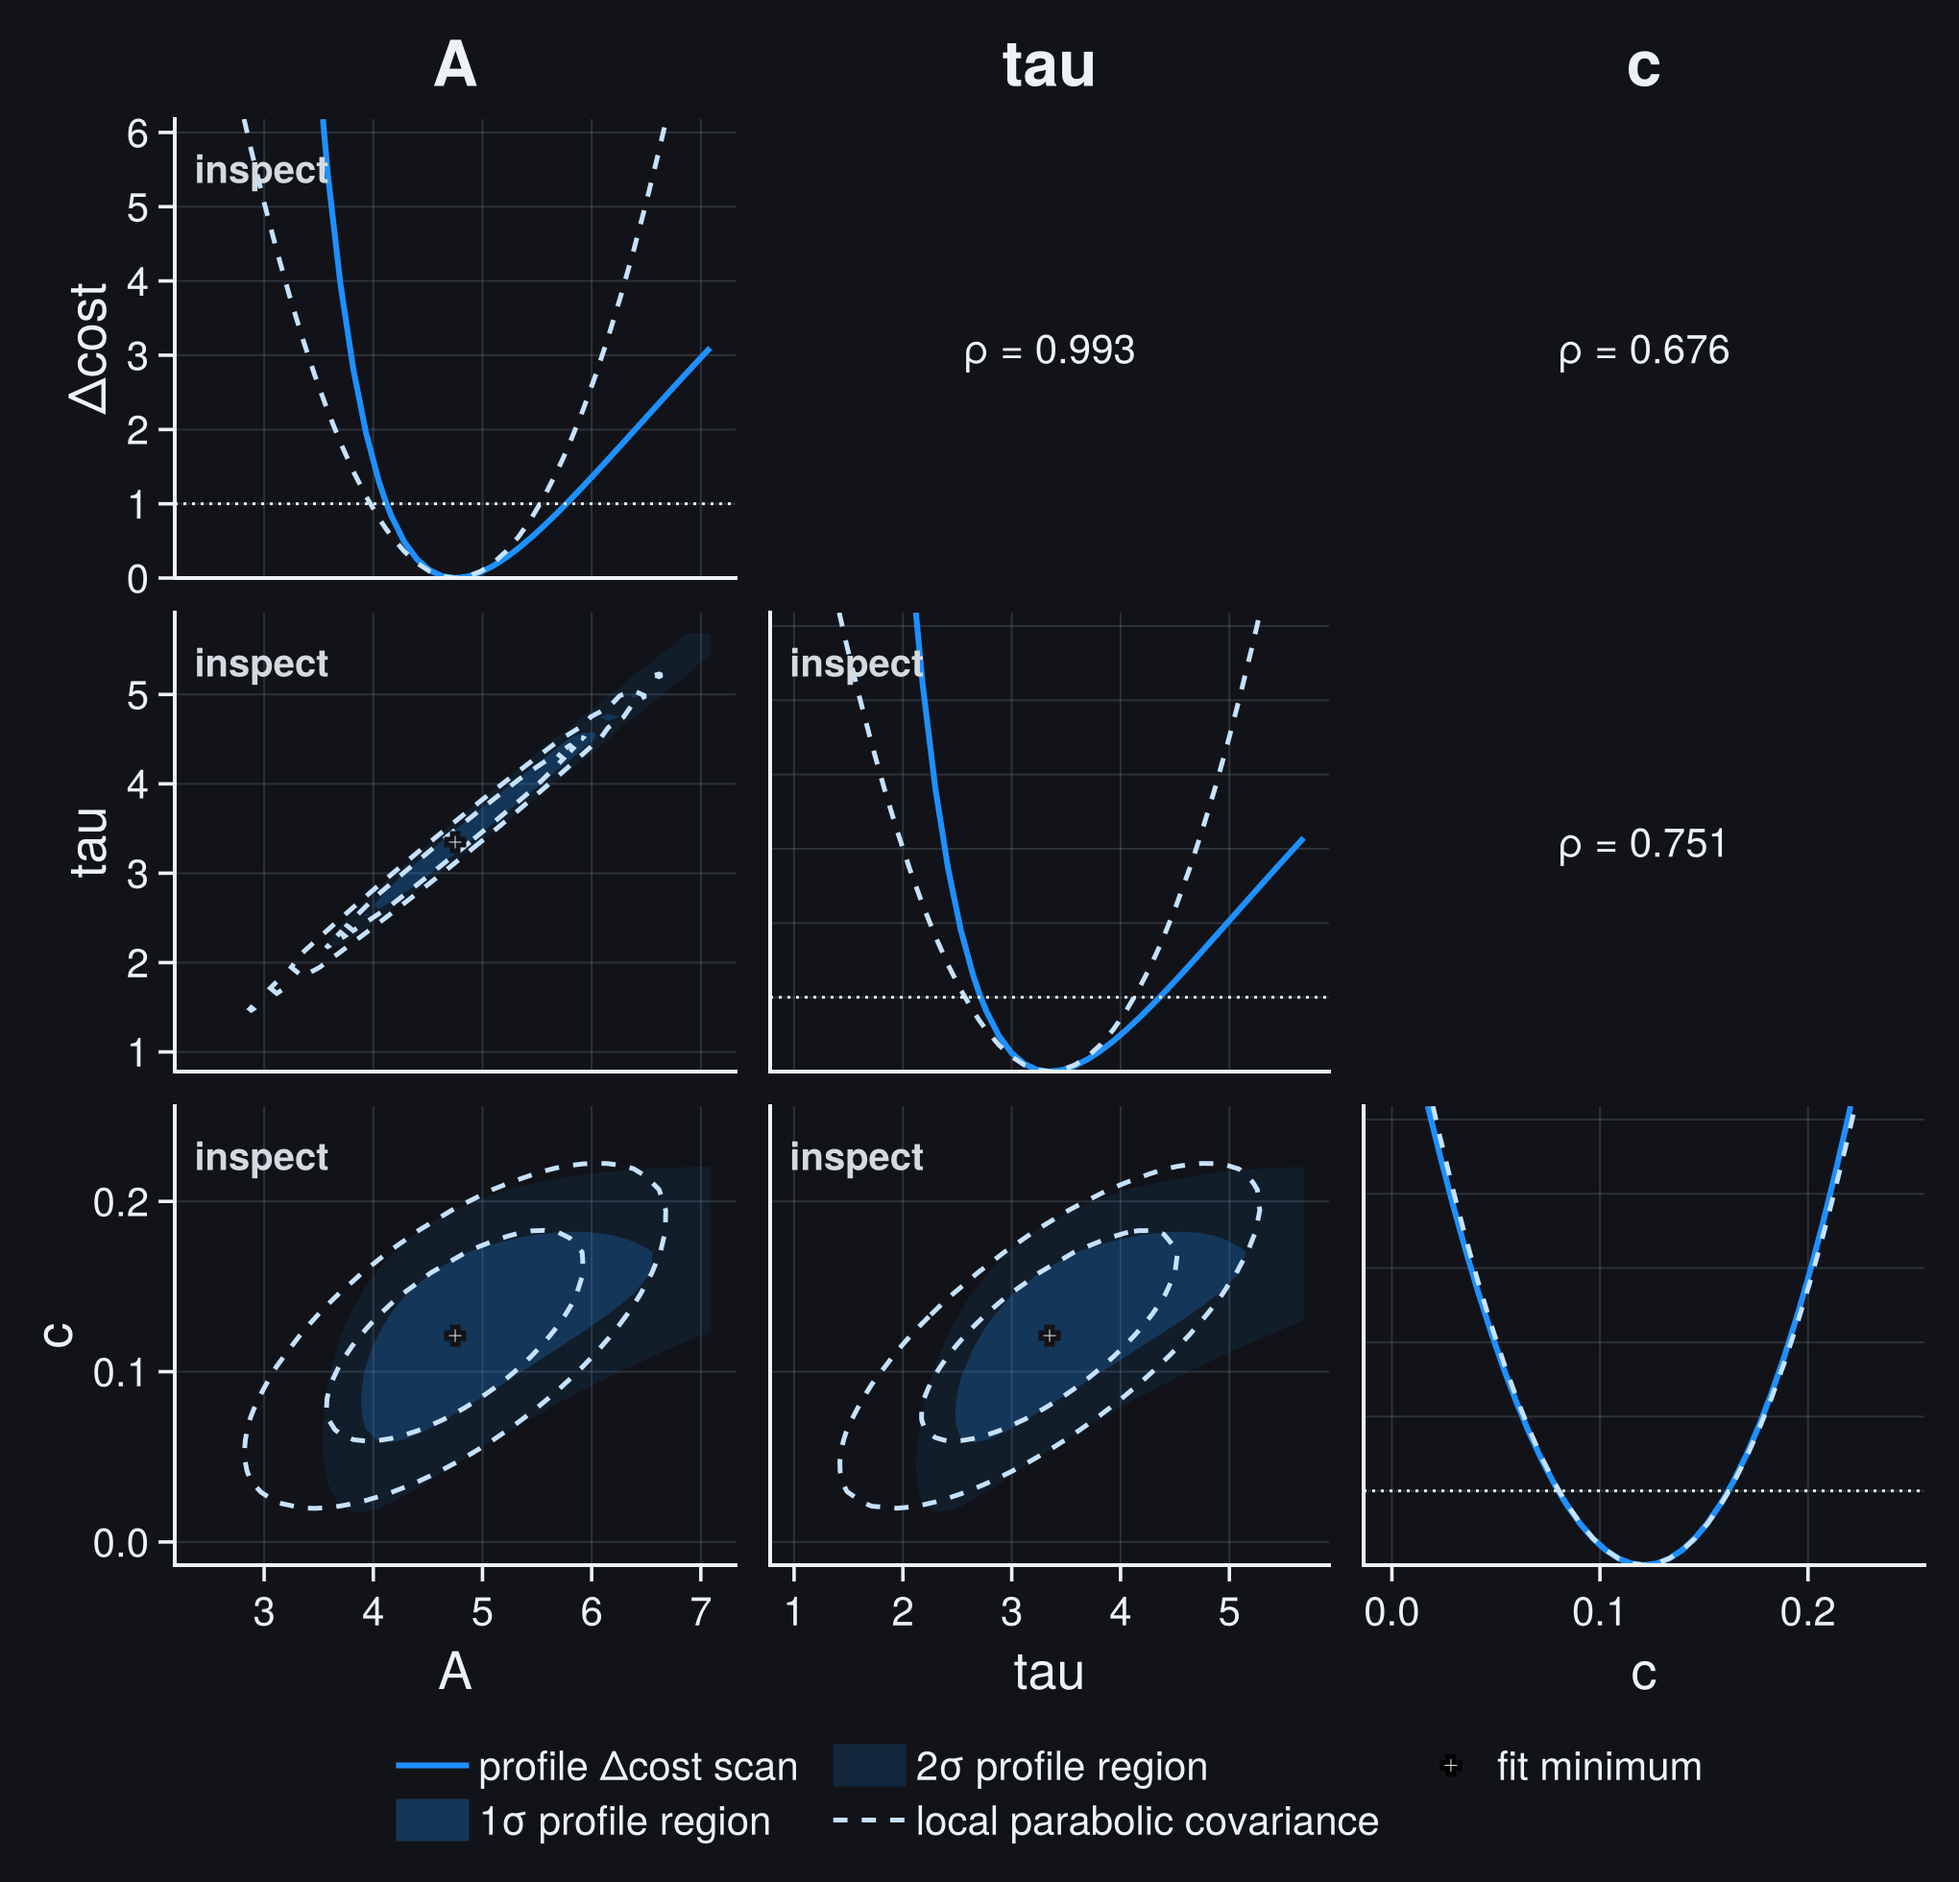
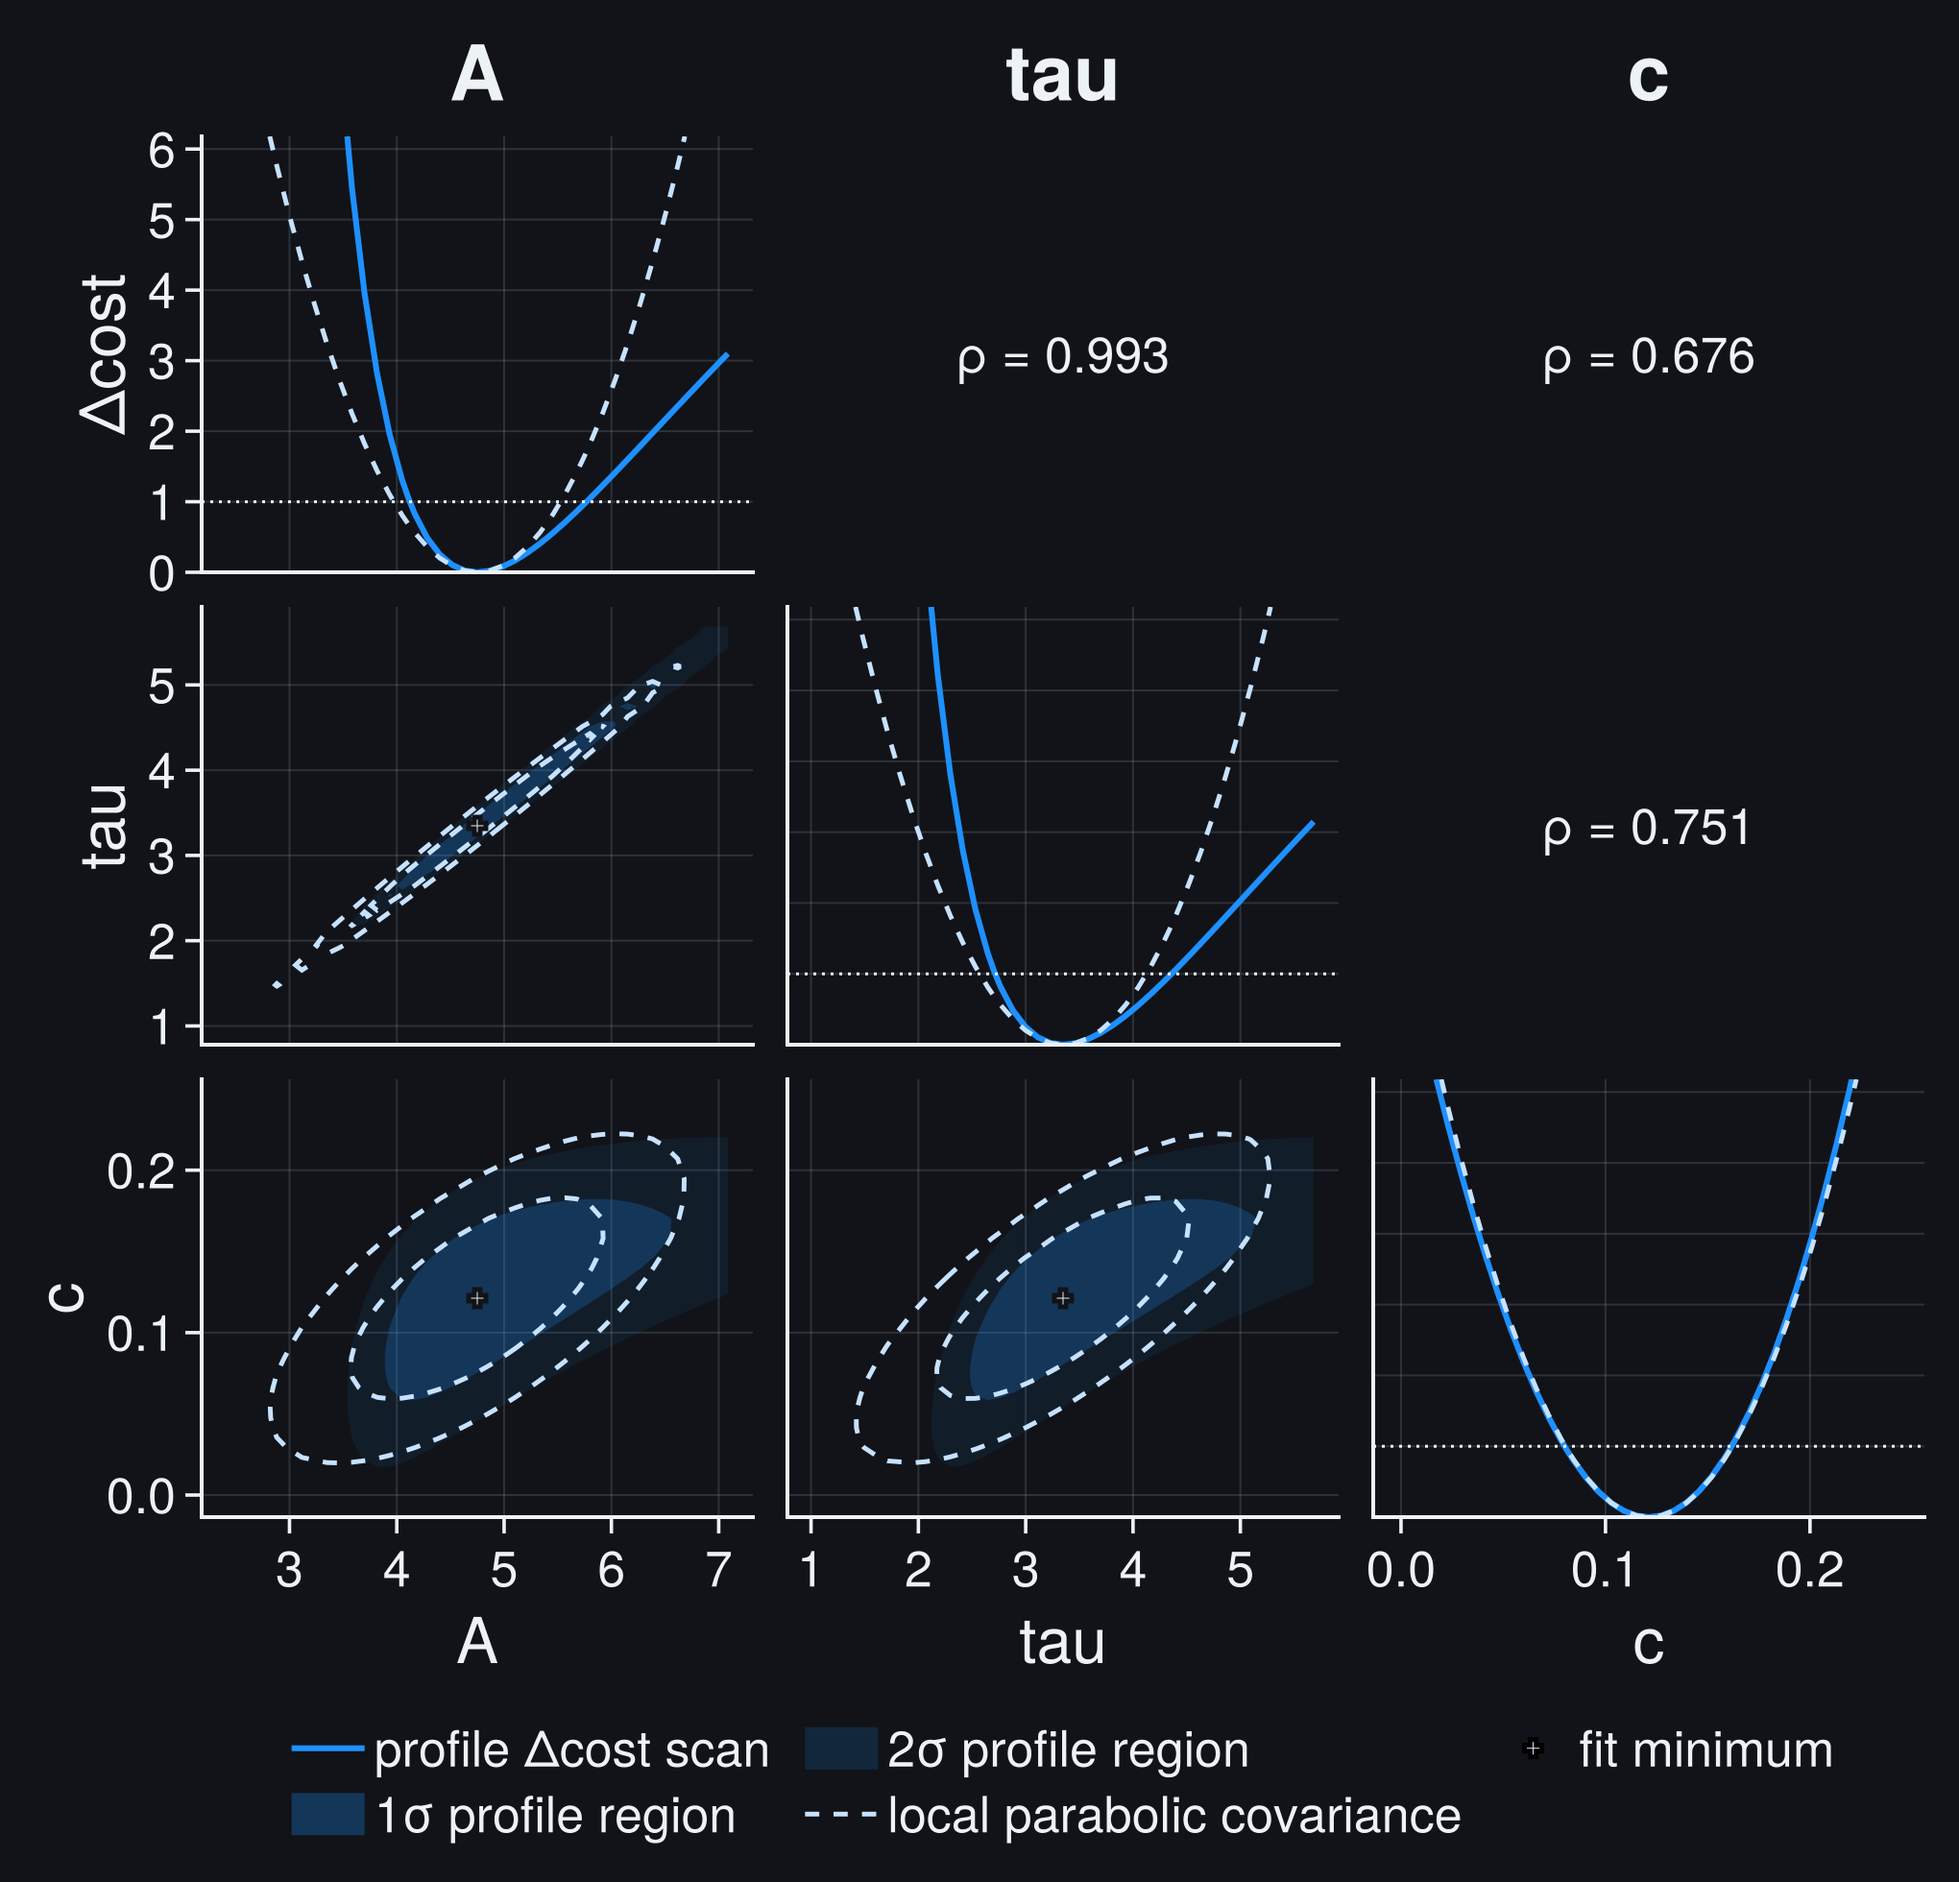
Differentiate compound plot roles

diff --git a/RELEASE_AUDIT.md b/RELEASE_AUDIT.md
@@ -83,10 +83,11 @@ Local commits on `codex/*` branches are allowed only as reviewable checkpoints.
   public documentation gate rejects the retired identifiers, while the
   33-check executable-output gate verifies the new report labels against real
   example runs.
-- The current plotting release slice passes locally with 158 focused API/layout
+- The current plotting release slice passes locally with 175 focused API/layout
   checks, 289 gallery-structure checks, 1297 visual-asset checks, 83 visual
   snapshot checks, and 713 public-documentation hygiene checks. Documenter
-  builds without warnings.
+  builds without warnings. The authoritative local `test/runtests.jl` gate also
+  passes all 719 core and plotting checks after this style correction.
 - The plot-style audit defines exactly three maintained output contracts rather
   than loosely related color variants. `:analysis` is the live notebook/lab
   role with a complete result column. `:presentation` is a large sans-serif,
@@ -101,6 +102,11 @@ Local commits on `codex/*` branches are allowed only as reviewable checkpoints.
   review at documentation scale verified the role comparison and custom
   Photoelectric/Poisson compositions, including real role and appearance
   switching. Final maintainer visual approval is still required.
+- Compound profile matrices now inherit role-specific information density
+  rather than applying one global shrink factor. Analysis output retains panel
+  triage, presentation output uses the full type scale without workflow labels,
+  and article output remains a clean TeX export. Focused tests inspect the
+  effective Makie axis sizes and the role defaults, not only preset tokens.
 - The Profiles and Contours methods page now demonstrates profiling with an
   analytic two-parameter correlated quadratic cost. At a forced one-standard-
   error displacement, the frozen nuisance slice gives ``\Delta C=5.26`` while

diff --git a/docs/src/api_plotting.md b/docs/src/api_plotting.md
@@ -367,15 +367,17 @@ them. Its scan controls are `parameters=nothing`, `parameter_names=nothing`,
 `max_refinements=2`, and `max_points=1200`.
 
 Both methods accept `filename=nothing`, `format=:pdf`, `theme=:analysis`,
-`appearance=:auto`, `theme_override=Theme()`, `panel_status_mode=:issues`,
+`appearance=:auto`, `theme_override=Theme()`, `panel_status_mode=nothing`,
 `delta_max=nothing`, and `figure_size=nothing`. The precomputed-result method
 also accepts replacement `parameter_names` but no scan controls.
 
-`panel_status_mode=:issues` labels only panels requiring attention; `:all`
-labels every panel and `:none` suppresses status text. Invalid modes, mismatched
-display-name counts, or inconsistent stored matrix dimensions raise
-`ArgumentError`. Compute [`profile_matrix`](@ref) separately when scans should
-run headlessly, be triaged before rendering, or be reused in several exports.
+With `panel_status_mode=nothing`, the output role chooses the default:
+`:analysis` labels only panels requiring attention, while `:presentation` and
+`:article` suppress workflow labels. Explicit `:issues`, `:all`, or `:none`
+overrides that choice. Invalid modes, mismatched display-name counts, or
+inconsistent stored matrix dimensions raise `ArgumentError`. Compute
+[`profile_matrix`](@ref) separately when scans should run headlessly, be
+triaged before rendering, or be reused in several exports.
 
 ## Export Semantics
 

diff --git a/docs/src/plotting_design.md b/docs/src/plotting_design.md
@@ -117,6 +117,13 @@ variations. They do not change data, fit, uncertainty band, or statistics.
   normally belong in a caption or table; `show_stats=true` restores the panel
   when a self-contained article figure needs it.
 
+The same contracts apply to compound diagnostics. An analysis profile matrix
+uses compact readable type and marks panels that need inspection. Presentation
+output removes those workflow labels and spends the available canvas on larger
+type. Article output also omits workflow labels, uses TeX typography, and keeps
+the full axis frame. Set `panel_status_mode` explicitly only when an export must
+depart from that role default.
+
 All three images below contain the same observations, errors, fit, one-sigma
 prediction band, and labels. Only the output job changes.
 
